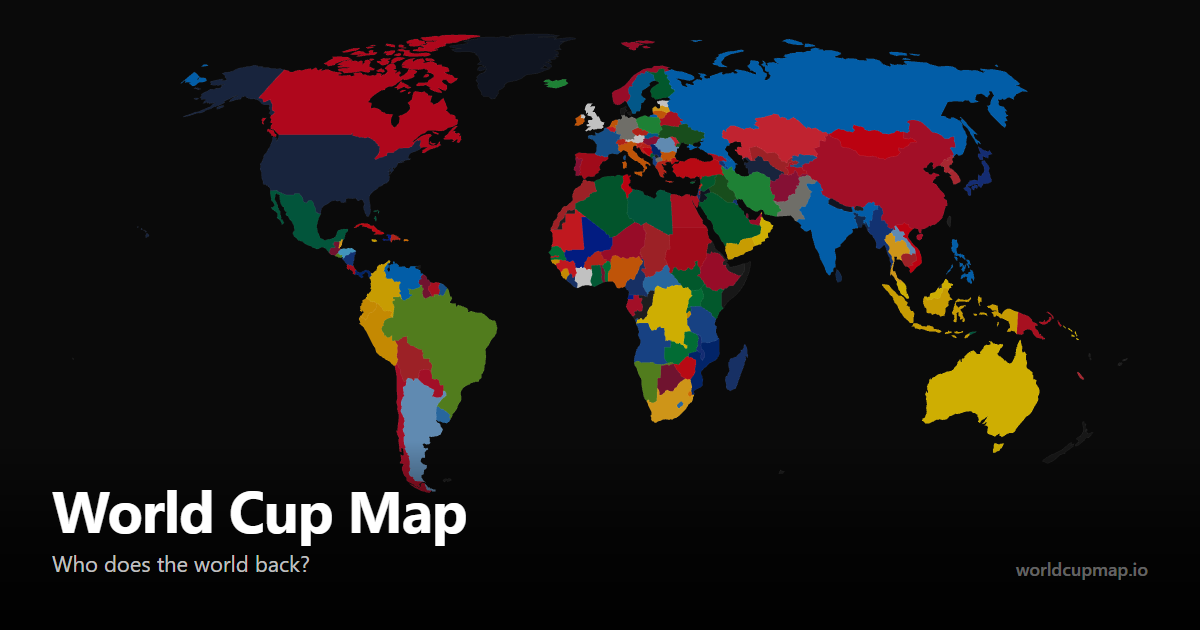
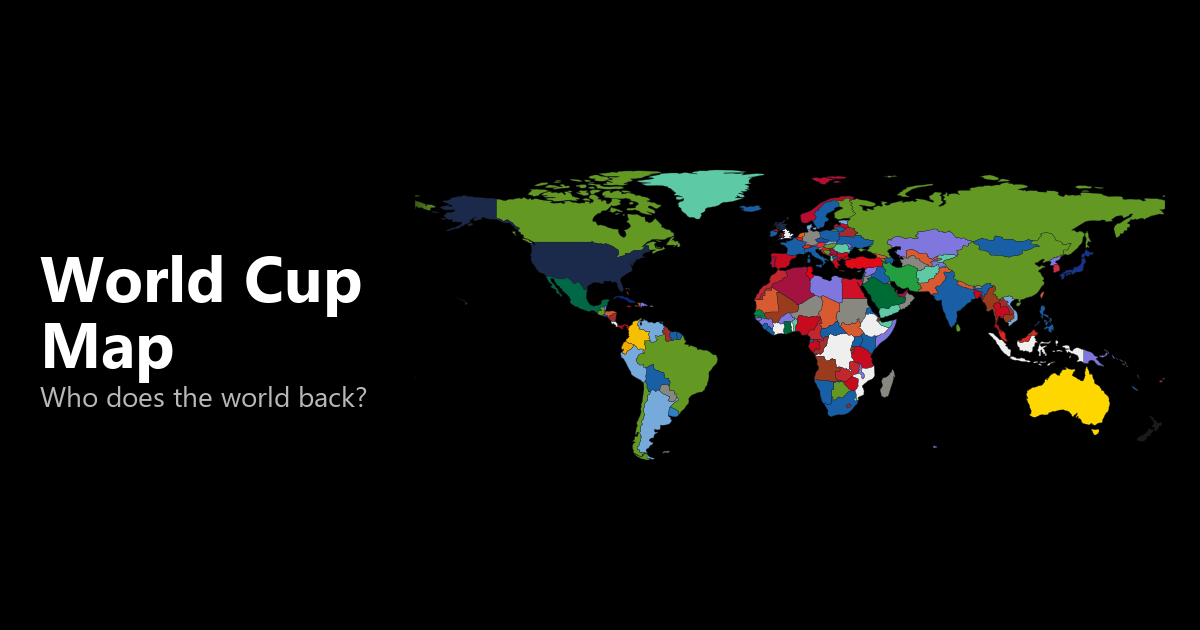
feat: regenerate homepage OG image with UK subdivisions
Update generate-og-image.py to fetch live tournament picks from Supabase,
render GB-ENG/SCT/WLS/NIR from uk-nations.geojson, and keep other countries
on og-map-fills.json fallbacks. Regenerated og-image.png (1200x630, 86KB).

Changed region(s): [[0.0308, 0.0302, 0.9867, 0.9048], [0.8325, 0.8746, 0.9558, 0.9349]]

diff --git a/index.html b/index.html
@@ -8,14 +8,14 @@
   <meta property="og:type" content="website" />
   <meta property="og:title" content="World Cup Map - Who does the world back?" />
   <meta property="og:description" content="See how every nation is predicting the 2026 World Cup. Add your pick to the global map." />
-  <meta property="og:image" content="https://worldcupmap.io/og-image.png?v=3" />
+  <meta property="og:image" content="https://worldcupmap.io/og-image.png?v=4" />
   <meta property="og:image:width" content="1200" />
   <meta property="og:image:height" content="630" />
   <meta property="og:url" content="https://worldcupmap.io" />
   <meta name="twitter:card" content="summary_large_image" />
   <meta name="twitter:title" content="World Cup Map - Who does the world back?" />
   <meta name="twitter:description" content="See how every nation is predicting the 2026 World Cup. Add your pick to the global map." />
-  <meta name="twitter:image" content="https://worldcupmap.io/og-image.png?v=3" />
+  <meta name="twitter:image" content="https://worldcupmap.io/og-image.png?v=4" />
   <link rel="icon" type="image/x-icon" href="/favicon.ico">
   <link rel="icon" type="image/png" sizes="32x32" href="/favicon-32.png">
   <link rel="apple-touch-icon" sizes="180x180" href="/apple-touch-icon.png">

diff --git a/scripts/generate-og-image.py b/scripts/generate-og-image.py
@@ -1,21 +1,32 @@
 """Generate og-image.png for social sharing previews.
 
-Layout: 1200×630 black canvas, 380px left text band, 820px map area,
+Layout: 1200x630 black canvas, 380px left text band, 820px map area,
 60px gradient at the boundary, no text overlap with the map.
+
+Map colours are data-driven from Supabase tournament predictions (match_id
+IS NULL), using the same VALID_TEAMS filter and TEAM_COLORS as the homepage.
+UK is rendered as four subdivisions from uk-nations.geojson (ONS / jhellingsdata).
+Other countries without live data keep their colours from og-map-fills.json.
 """
 
 from __future__ import annotations
 
 import io
 import json
+import os
+import urllib.parse
+import urllib.request
+from collections import Counter
 from pathlib import Path
 
 import geopandas as gpd
+import pandas as pd
 import matplotlib
 
 matplotlib.use("Agg")
 import matplotlib.pyplot as plt
 from PIL import Image, ImageDraw, ImageFont
+from shapely.geometry import shape
 
 W, H = 1200, 630
 LEFT_BAND_W = 380
@@ -32,6 +43,25 @@ BG = "#000000"
 TEXT = "#ffffff"
 SUBTEXT = "#b8b8b8"
 MAP_BG = "#000000"
+NO_DATA_FILL = "#1e1e1e"
+
+NE_URL = (
+    "https://raw.githubusercontent.com/nvkelso/natural-earth-vector/"
+    "master/geojson/ne_110m_admin_0_countries.geojson"
+)
+
+# Natural Earth ISO_A2 overrides where ISO_A2 is -99
+NAME_TO_ISO2 = {
+    "France": "FR",
+    "Norway": "NO",
+    "Kosovo": "XK",
+    "United States of America": "US",
+    "United Kingdom": "GB",
+}
+
+
+def load_config(script_dir: Path) -> dict:
+    return json.loads((script_dir / "og-map-config.json").read_text(encoding="utf-8"))
 
 
 def load_font(bold: bool, size: int) -> ImageFont.FreeTypeFont | ImageFont.ImageFont:
@@ -48,12 +78,123 @@ def load_font(bold: bool, size: int) -> ImageFont.FreeTypeFont | ImageFont.Image
     return ImageFont.load_default()
 
 
+def fetch_prediction_fills(config: dict) -> dict[str, str]:
+    """Majority tournament pick per nation_iso2 -> team colour hex."""
+    valid_teams = set(config["validTeams"])
+    team_colors = config["teamColors"]
+    base_url = os.environ.get("SUPABASE_URL", config["supabaseUrl"])
+    anon_key = os.environ.get("SUPABASE_ANON_KEY", config["supabaseAnonKey"])
+
+    rows: list[dict] = []
+    offset = 0
+    page_size = 1000
+    while True:
+        query = urllib.parse.urlencode({
+            "match_id": "is.null",
+            "select": "nation_iso2,predicted_winner",
+            "offset": offset,
+            "limit": page_size,
+        })
+        req = urllib.request.Request(
+            f"{base_url}/rest/v1/predictions?{query}",
+            headers={
+                "apikey": anon_key,
+                "Authorization": f"Bearer {anon_key}",
+            },
+        )
+        with urllib.request.urlopen(req, timeout=60) as resp:
+            batch = json.loads(resp.read().decode("utf-8"))
+        if not batch:
+            break
+        rows.extend(batch)
+        if len(batch) < page_size:
+            break
+        offset += page_size
+
+    by_nation: dict[str, Counter[str]] = {}
+    for row in rows:
+        iso = row.get("nation_iso2")
+        team = row.get("predicted_winner")
+        if not iso or not team or team not in valid_teams:
+            continue
+        by_nation.setdefault(iso, Counter())[team] += 1
+
+    fills: dict[str, str] = {}
+    for iso, counts in by_nation.items():
+        top_team, _ = counts.most_common(1)[0]
+        fills[iso] = team_colors[top_team]
+    return fills
+
+
 def load_country_fills(script_dir: Path) -> list[str]:
     fills_path = script_dir / "og-map-fills.json"
     return json.loads(fills_path.read_text(encoding="utf-8"))
 
 
-def render_map(world) -> Image.Image:
+def iso2_for_row(row) -> str | None:
+    iso = row.get("ISO_A2")
+    if iso and iso != "-99":
+        return iso
+    return NAME_TO_ISO2.get(row.get("NAME"))
+
+
+def fill_for_iso(
+    iso2: str | None,
+    live_fills: dict[str, str],
+    fallback: str,
+) -> str:
+    if iso2 and iso2 in live_fills:
+        return live_fills[iso2]
+    return fallback
+
+
+def build_map_geodataframe(
+    repo: Path,
+    script_dir: Path,
+    live_fills: dict[str, str],
+) -> gpd.GeoDataFrame:
+    fallback_fills = load_country_fills(script_dir)
+    world_full = gpd.read_file(NE_URL)
+    if len(world_full) != len(fallback_fills):
+        raise SystemExit(
+            f"Country count mismatch: geojson has {len(world_full)}, "
+            f"og-map-fills.json has {len(fallback_fills)}"
+        )
+
+    world_full = world_full.copy()
+    world_full["fill"] = fallback_fills
+    uk_fallback = (
+        world_full.loc[world_full["ISO_A2"] == "GB", "fill"].iloc[0]
+        if (world_full["ISO_A2"] == "GB").any()
+        else NO_DATA_FILL
+    )
+
+    world_full = world_full[world_full["NAME"] != "Antarctica"].copy()
+    world_full = world_full[world_full["ISO_A2"] != "GB"].copy()
+
+    world_full["iso2"] = world_full.apply(iso2_for_row, axis=1)
+    world_full["fill"] = world_full.apply(
+        lambda row: fill_for_iso(row["iso2"], live_fills, row["fill"]),
+        axis=1,
+    )
+
+    uk_path = repo / "uk-nations.geojson"
+    uk_geojson = json.loads(uk_path.read_text(encoding="utf-8"))
+    uk_rows = []
+    for feature in uk_geojson["features"]:
+        iso = feature["properties"]["iso2"]
+        uk_rows.append({
+            "iso2": iso,
+            "NAME": feature["properties"]["name"],
+            "fill": fill_for_iso(iso, live_fills, uk_fallback),
+            "geometry": shape(feature["geometry"]),
+        })
+
+    uk_gdf = gpd.GeoDataFrame(uk_rows, crs=world_full.crs)
+    return pd.concat([world_full, uk_gdf], ignore_index=True)
+
+
+def render_map(world: gpd.GeoDataFrame) -> Image.Image:
     """Render the coloured world map into a padded sub-region of the right area."""
     map_inner_w = MAP_W - 2 * MAP_PAD
     map_inner_h = H - 2 * MAP_PAD
@@ -89,13 +230,11 @@ def render_map(world) -> Image.Image:
 
 
 def apply_left_band_mask(canvas: Image.Image) -> None:
-    """Ensure the left band stays pure black over any map bleed."""
     draw = ImageDraw.Draw(canvas)
     draw.rectangle((0, 0, LEFT_BAND_W - 1, H - 1), fill=BG)
 
 
 def apply_boundary_gradient(canvas: Image.Image) -> None:
-    """Fade the left edge of the map into the black text band."""
     gradient = Image.new("RGBA", (GRADIENT_W, H))
     for x in range(GRADIENT_W):
         alpha = int(255 * (1 - x / (GRADIENT_W - 1)))
@@ -113,11 +252,9 @@ def draw_text_band(canvas: Image.Image) -> None:
     subtitle = "Who does the world back?"
 
     line_heights = []
-    line_widths = []
     for line in title_lines:
         bbox = draw.textbbox((0, 0), line, font=title_font)
         line_heights.append(bbox[3] - bbox[1])
-        line_widths.append(bbox[2] - bbox[0])
     sub_bbox = draw.textbbox((0, 0), subtitle, font=sub_font)
     sub_h = sub_bbox[3] - sub_bbox[1]
 
@@ -133,24 +270,39 @@ def draw_text_band(canvas: Image.Image) -> None:
     draw.text((TEXT_PAD_LEFT, y + TITLE_SUBTITLE_GAP - 4), subtitle, fill=SUBTEXT, font=sub_font)
 
 
+def save_og_png(canvas: Image.Image, out_path: Path) -> None:
+    """Save PNG under 250KB for WhatsApp preview compatibility."""
+    canvas.save(out_path, "PNG", optimize=True)
+    size = out_path.stat().st_size
+    if size <= 250_000:
+        print(f"Wrote {out_path} ({W}x{H}, {size // 1024}KB)")
+        return
+
+    for quality in (256, 224, 192, 160, 128):
+        quantized = canvas.quantize(colors=quality, method=Image.Quantize.MEDIANCUT)
+        rgb = quantized.convert("RGB")
+        rgb.save(out_path, "PNG", optimize=True)
+        size = out_path.stat().st_size
+        if size <= 250_000:
+            print(f"Wrote {out_path} ({W}x{H}, {size // 1024}KB, {quality} colours)")
+            return
+
+    print(f"Wrote {out_path} ({W}x{H}, {size // 1024}KB) - still above 250KB")
+
+
 def main() -> None:
     script_dir = Path(__file__).resolve().parent
     repo = script_dir.parent
     out_path = repo / "og-image.png"
-    country_fills = load_country_fills(script_dir)
+    config = load_config(script_dir)
 
-    url = (
-        "https://raw.githubusercontent.com/nvkelso/natural-earth-vector/"
-        "master/geojson/ne_110m_admin_0_countries.geojson"
-    )
-    world = gpd.read_file(url)
-    if len(world) != len(country_fills):
-        raise SystemExit(
-            f"Country count mismatch: geojson has {len(world)}, "
-            f"og-map-fills.json has {len(country_fills)}"
-        )
-    world["fill"] = country_fills
-    world = world[world["NAME"] != "Antarctica"]
+    live_fills = fetch_prediction_fills(config)
+    uk_preview = {iso: live_fills.get(iso, NO_DATA_FILL) for iso in (
+        "GB-ENG", "GB-SCT", "GB-WLS", "GB-NIR"
+    )}
+    print("UK subdivision colours:", uk_preview)
+
+    world = build_map_geodataframe(repo, script_dir, live_fills)
 
     canvas = Image.new("RGB", (W, H), BG)
     map_img = render_map(world)
@@ -159,8 +311,7 @@ def main() -> None:
     apply_boundary_gradient(canvas)
     draw_text_band(canvas)
 
-    canvas.save(out_path, "PNG", optimize=True)
-    print(f"Wrote {out_path} ({W}x{H})")
+    save_og_png(canvas, out_path)
 
 
 if __name__ == "__main__":
